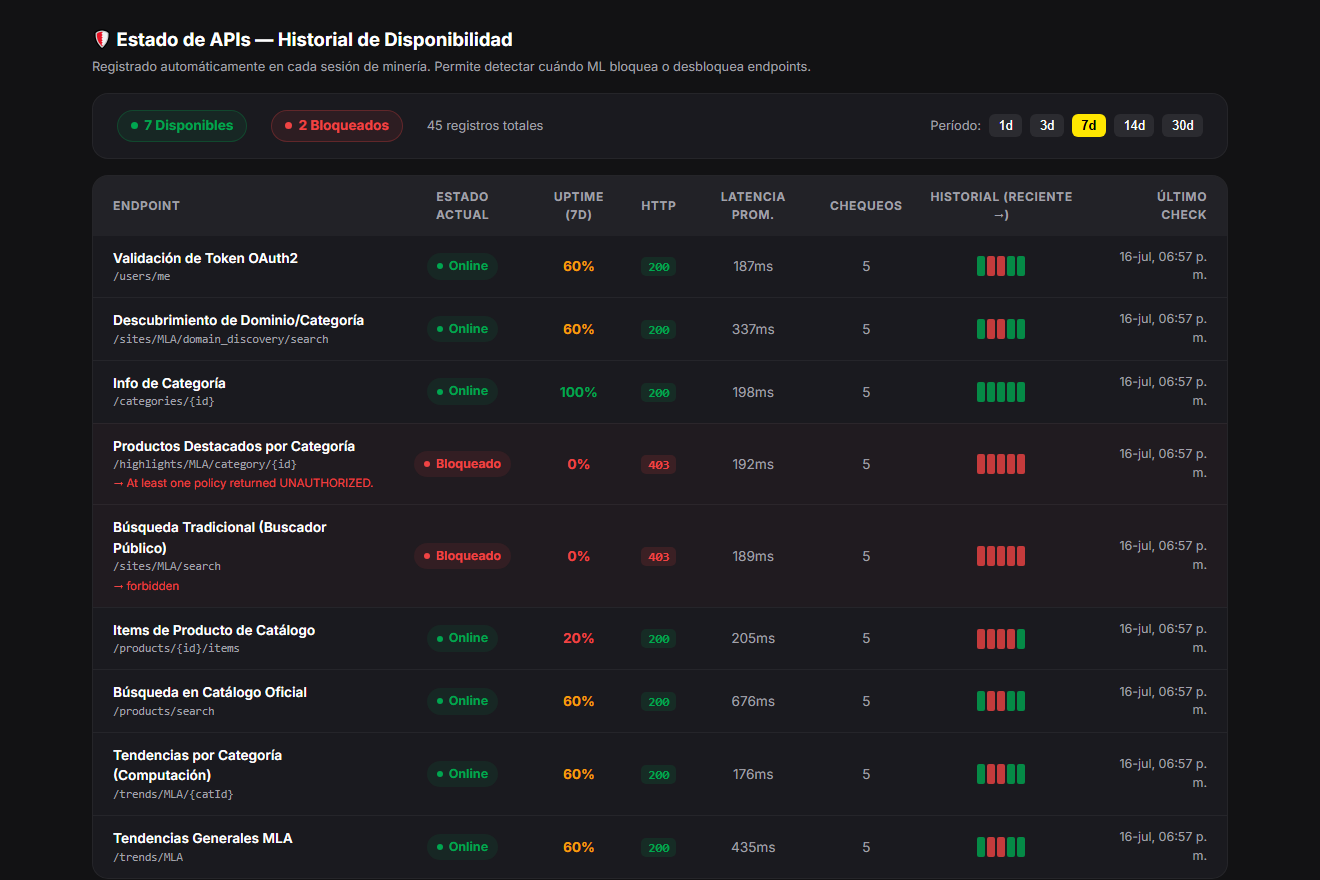
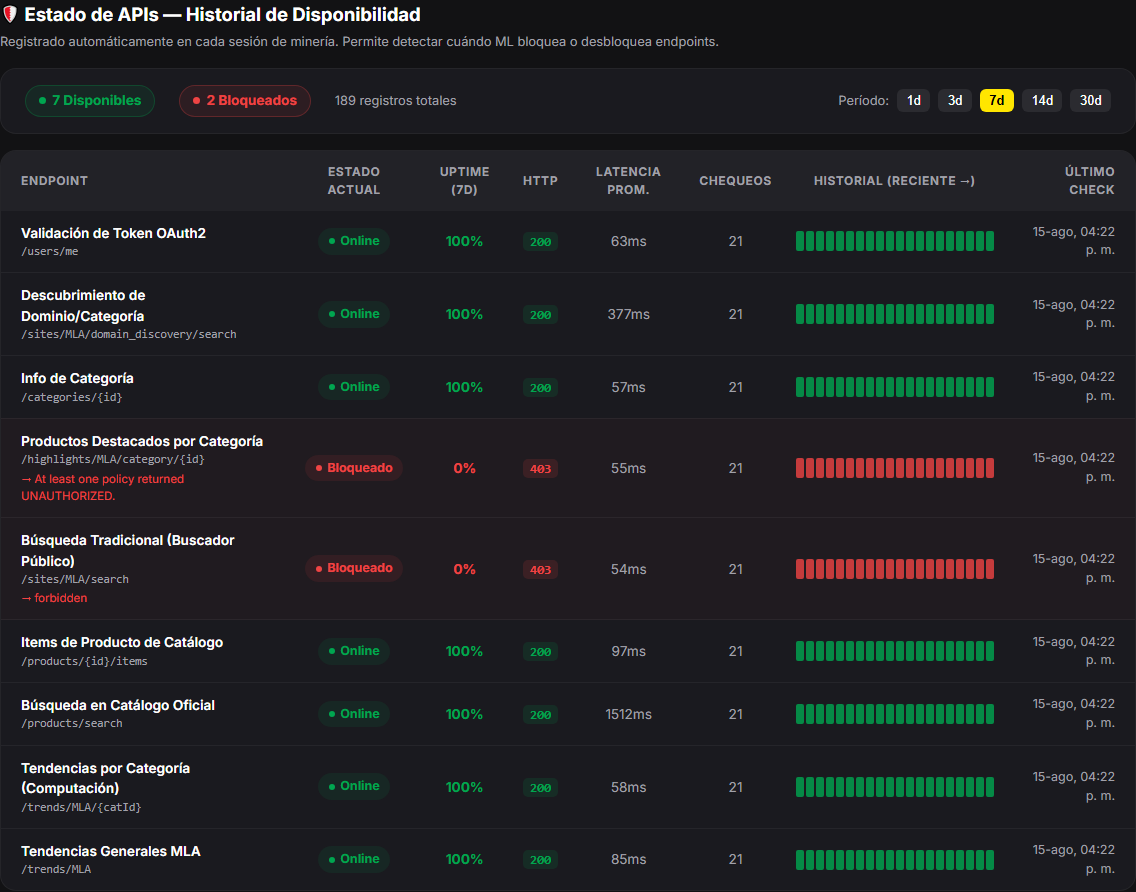
Actualizar capturas de la demo del capitulo 7 (estaban de antes del split dashboard/admin)
Las capturas databan del 3/8, de antes de separar /dashboard
(clientes) de /admin (panel tecnico). Se recapturan en vivo contra
produccion (15/08/2026):

- Fig 7.1: ahora es el panel /admin (antes mostraba una pagina que
  ya no existe con esa estructura).
- Fig 7.2: Estado de APIs, datos frescos.
- Fig 7.3: ranking capturado desde /dashboard real, con los
  dropdowns oscuros ya corregidos.
- Fig 7.4 (nueva): grafico de evolucion del score en el tiempo,
  funcionalidad agregada hoy que no estaba documentada.

Se remide el tiempo de respuesta de /dashboard (la ruta cambio de
contenido, el valor viejo ya no describia la misma pagina) y se
agrega fila para /admin. Se actualiza la referencia de RF05 en la
matriz de trazabilidad para apuntar a la nueva Fig 7.4.

diff --git a/pfi_latex/chapters/chapter07.tex b/pfi_latex/chapters/chapter07.tex
@@ -1,11 +1,11 @@
 \chapter{Demo -- Avances de Implementación}\label{chapter07}
 
-A continuación se presentan capturas del sistema en funcionamiento (julio de 2026), correspondientes al avance de implementación del 50\%: el pipeline de captura y su monitoreo, la base de datos histórica, la API REST y el dashboard con el ranking por score de tendencia. El sistema se encuentra publicado y accesible en producción, con captura de datos automatizada ejecutándose de manera autónoma varias veces por día.
+A continuación se presentan capturas del sistema en funcionamiento (agosto de 2026), correspondientes al avance de implementación del 50\%: el pipeline de captura y su monitoreo, la base de datos histórica, la API REST y el dashboard con el ranking por score de tendencia. El sistema se encuentra publicado y accesible en producción, con captura de datos automatizada ejecutándose de manera autónoma varias veces por día. La interfaz web se divide en dos vistas: un panel para clientes (\texttt{/dashboard}), con el ranking de productos y la evolución del score en el tiempo, y un panel técnico interno (\texttt{/admin}) con el monitoreo de endpoints y los registros de minería, que se documenta a continuación como evidencia de RNF01.
 
 \begin{figure}[ht]
 	\centering
-	\includegraphics[width=0.55\textwidth]{./images/demo/demo_dashboard.png}
-	\caption{Dashboard completo del sistema en funcionamiento (julio 2026).}
+	\includegraphics[width=0.75\textwidth]{./images/demo/demo_dashboard.png}
+	\caption{Panel técnico interno del sistema en funcionamiento (agosto 2026).}
 	\label{fig:demo-dashboard}
 \end{figure}
 
@@ -18,9 +18,16 @@ A continuación se presentan capturas del sistema en funcionamiento (julio de 20
 
 \begin{figure}[ht]
 	\centering
-	\includegraphics[width=0.9\textwidth]{./images/demo/demo_dashboard_score.png}
-	\caption{Ranking de productos por score de tendencia (RF02), con filtros por categoría y exportación CSV (RF03/RF06).}
+	\includegraphics[width=0.85\textwidth]{./images/demo/demo_dashboard_score.png}
+	\caption{Panel de clientes: ranking de productos por score de tendencia (RF02), con filtros por categoría y exportación CSV (RF03/RF06).}
 	\label{fig:demo-score}
+\end{figure}
+
+\begin{figure}[ht]
+	\centering
+	\includegraphics[width=0.85\textwidth]{./images/demo/demo_dashboard_evolucion.png}
+	\caption{Panel de clientes: evolución del score de tendencia de un producto en el tiempo, con el desglose de sus componentes (RF02, RF05).}
+	\label{fig:demo-evolucion}
 \end{figure}
 
 \section{Evidencia cuantitativa del sistema en producción}\label{sec:evidencia-cuantitativa}
@@ -46,7 +53,8 @@ Más allá de la afirmación de que el sistema está desplegado y capturando dat
 		Sesiones de minería estimadas & $\sim$73 (agrupando snapshots por cortes de inactividad $>$40 min), $\sim$30,6 apariciones registradas por sesión en promedio \\
 		Frecuencia de captura configurada & 3 corridas diarias (cron programado, ver Sección~\ref{sec:evolucion-tecnica}) \\
 		Tiempo de respuesta -- \texttt{/api/health}, \texttt{/api/status} & 0,5 -- 2,1\,s (medido, 3 muestras c/u) \\
-		Tiempo de respuesta -- \texttt{/dashboard} & 2,2 -- 6,1\,s (medido, 3 muestras) \\
+		Tiempo de respuesta -- \texttt{/dashboard} (panel de clientes) & 0,5 -- 1,1\,s en caliente (medido, 5 muestras el 15/08/2026, tras separar el panel de clientes del panel técnico) \\
+		Tiempo de respuesta -- \texttt{/admin} (panel técnico) & 1,9 -- 4,0\,s (medido, 3 muestras el 15/08/2026) \\
 		Tiempo de respuesta -- \texttt{/api/trend-scores} & 6,3 -- 7,6\,s (medido, 5 muestras) -- ver limitación en RNF02, Sección~\ref{sec:trazabilidad} \\
 		\bottomrule
 	\end{tabularx}

diff --git a/pfi_latex/chapters/chapter03.tex b/pfi_latex/chapters/chapter03.tex
@@ -51,7 +51,7 @@ La siguiente matriz vincula cada requerimiento con su estado real de implementac
 	RF02 & Implementado & 3911 scores calculados y persistidos con desglose completo. Fórmula, pesos y ejemplo real documentados. & Sec.~\ref{sec:score-formal} \\
 	RF03 & Implementado & Filtro por categoría y orden por score/variación de precio, activos en el dashboard. & Fig.~\ref{fig:demo-score} \\
 	RF04 & Implementado & 5 endpoints REST en producción (\texttt{/api/trend-scores}, \texttt{/api/health}, \texttt{/api/status}, \texttt{/api/search}, \texttt{/api/trends}). & Sec.~\ref{sec:evidencia-cuantitativa} \\
-	RF05 & Implementado & Gráfico de evolución de precio por producto y panel de tendencias desglosado por categoría, ambos en el dashboard. & Fig.~\ref{fig:demo-dashboard} \\
+	RF05 & Implementado & Gráfico de evolución del score de tendencia por producto y panel de tendencias desglosado por categoría, ambos en el dashboard. & Fig.~\ref{fig:demo-evolucion} \\
 	RF06 & Implementado & Exportación a CSV del ranking filtrado, disponible en el dashboard. & Fig.~\ref{fig:demo-score} \\
 	RNF01 & Implementado & Sin bloqueos por rate-limit en 26 días de operación; los únicos 2 endpoints bloqueados lo están por política de Mercado Libre, no por exceso de solicitudes. & Sec.~\ref{sec:evidencia-cuantitativa} \\
 	RNF02 & \textbf{Parcial} & Medido en producción: \texttt{/api/health} y \texttt{/api/status} responden en $<$2\,s; \texttt{/api/trend-scores} promedia 6--7,6\,s con el volumen actual (3911 scores), por encima del objetivo de 3\,s. Limitación identificada para optimizar en la próxima etapa (paginar / traer solo el último score por producto). & Sec.~\ref{sec:evidencia-cuantitativa} \\

diff --git a/pfi_latex/COMENTARIOS_REVISION.md b/pfi_latex/COMENTARIOS_REVISION.md
@@ -238,3 +238,19 @@ Cambié la abreviatura "Cdad. Autónoma de Buenos Aires" por "Ciudad Autónoma d
 Aparte, la captura que mandaste mostraba el texto de la portada cortado del lado izquierdo ("TEMA DE DETECCIÓN...", "DE) Universidad...") — renderé la portada directo desde el PDF compilado y el texto está completo y centrado; el recorte era solo de la captura/visor, no del documento.
 
 Recompilé (`pdflatex` ×2), sin errores, 68 páginas, 0 anotaciones.
+
+## 39. Capturas de la demo actualizadas (estaban desactualizadas)
+
+Buena observación: las capturas databan del 3 de agosto, de **antes** de separar `/dashboard` (clientes) de `/admin` (panel técnico) el mismo día de hoy. La captura vieja de "Dashboard completo" mostraba una página que ya no existe con esa URL — mezclaba Estado de APIs, tendencias en tiempo real, ranking y catálogo crudo todo junto, que es justamente el contenido que ahora vive en `/admin`.
+
+Recapturé las 3 imágenes en vivo contra la producción actual (15/08/2026):
+- **Figura 7.1** (antes "Dashboard completo"): ahora es el panel técnico `/admin`, con datos frescos (185 productos, 591 búsquedas, 2733 snapshots).
+- **Figura 7.2** (Estado de APIs): misma sección, datos frescos (189 registros totales, checks del 15-ago).
+- **Figura 7.3** (ranking por score): ahora capturada desde `/dashboard`, la vista real de clientes, con 137 productos y los nuevos dropdowns oscuros ya corregidos.
+- **Figura 7.4 (nueva)**: agregué el gráfico de evolución del score en el tiempo, una funcionalidad que no existía cuando se sacaron las capturas viejas.
+
+También actualicé la tabla de evidencia cuantitativa (Sección 7.1): el tiempo de respuesta de `/dashboard` medido el 10/08 ya no correspondía a la misma página (esa ruta cambió de estructura hoy), así que lo remedí en caliente hoy: bajó de 2,2–6,1s a 0,5–1,1s, porque la vista de clientes ahora es mucho más liviana que el panel combinado viejo. Agregué una fila nueva para `/admin` (1,9–4,0s, el panel pesado con todas las consultas). El resto de la tabla (productos, scores, sesiones, etc.) sigue fechado al 10/08 como estaba, sin tocar — sigue siendo evidencia válida de ese momento.
+
+Actualicé también la referencia de RF05 en la matriz de trazabilidad (Sección 3.4) para que apunte a la Figura 7.4 (evolución del score), más directa que la anterior.
+
+Recompilé (`pdflatex` ×2), sin errores, 67 páginas (bajó de 68 por el tamaño de las imágenes nuevas), 0 anotaciones, 0 menciones de IA.
